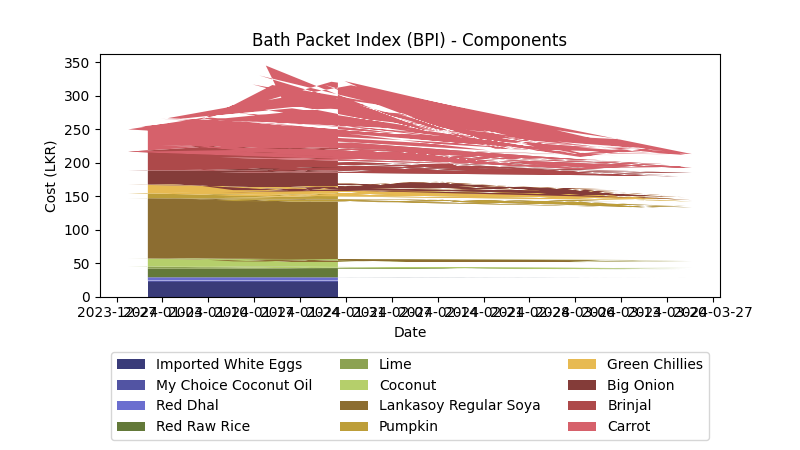
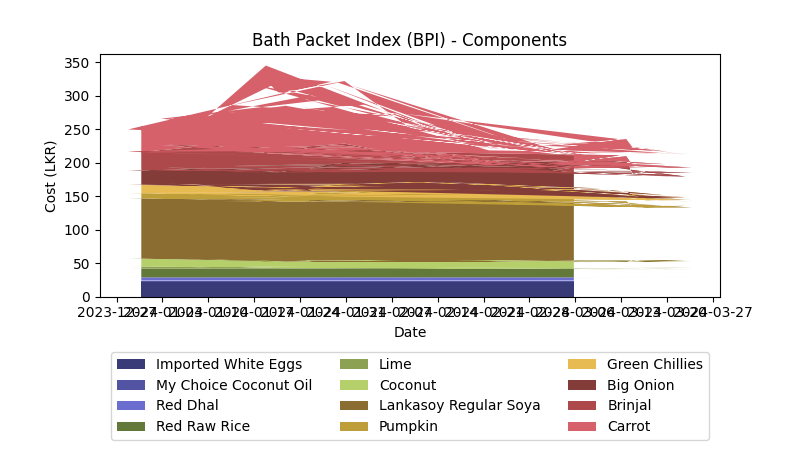
pipeline Thu Apr  9 00:09:29 UTC 2026

Changed region(s): [[0.1562, 0.1556, 0.875, 0.6844]]

diff --git a/README.md b/README.md
@@ -17,7 +17,7 @@ This repository contains various tools to help with this effort.
 ## Food Data
 
 > [!IMPORTANT]
-> Scraped 3,839 items as of 2026-04-08 05:41:51.
+> Scraped 3,837 items as of 2026-04-09 05:39:00.
 
 ## 50g of Protein
 
@@ -41,17 +41,17 @@ Item | Quantity | Cost (LKR)
 
 Item | Quantity | Cost (LKR)
 :--- | ---: | ---:
-🍋 Lime | **4.0** g | **1.07** LKR
-🌶️ Green Chillies | **8.0** g | **2.80** LKR
+🍋 Lime | **4.0** g | **1.14** LKR
+🌶️ Green Chillies | **8.0** g | **2.68** LKR
 🎃 Pumpkin | **40.0** g | **3.64** LKR
-🍆 Brinjal | **40.0** g | **4.74** LKR
+🍆 Brinjal | **40.0** g | **4.23** LKR
 🍲 Red Dhal | **16.0** g | **4.78** LKR
 🧅 Big Onion | **40.0** g | **13.96** LKR
 🍚 Red Raw Rice | **73.0** g | **14.53** LKR
-🥥 Coconut | **0.1**  | **15.32** LKR
-🥕 Carrot | **40.0** g | **21.72** LKR
+🥥 Coconut | **0.1**  | **15.22** LKR
+🥕 Carrot | **40.0** g | **20.84** LKR
 🍲 Lankasoy Regular Soya | **54.0** g | **72.00** LKR
-**TOTAL** |   | **154.57** LKR
+**TOTAL** |   | **153.01** LKR
 
 </div>
 